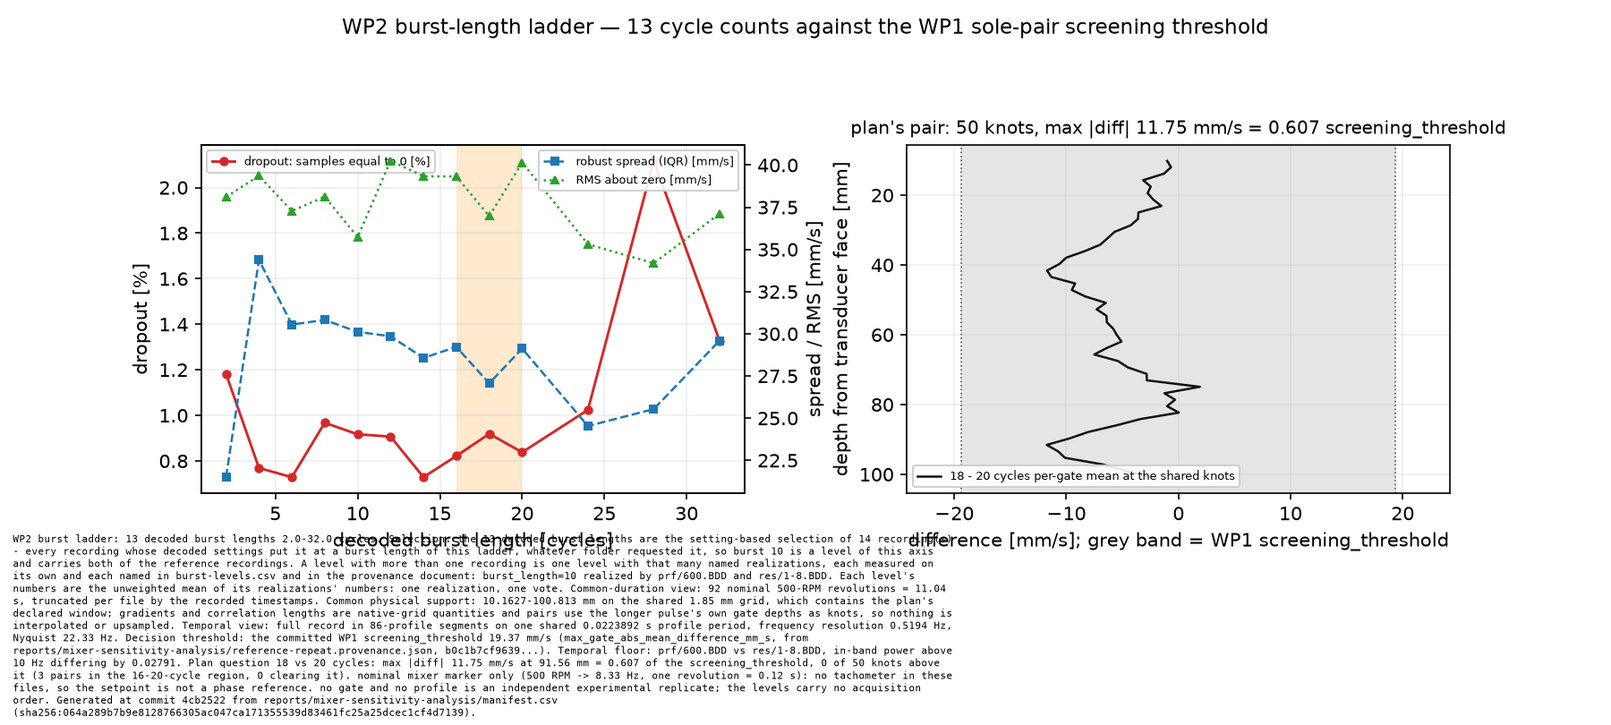
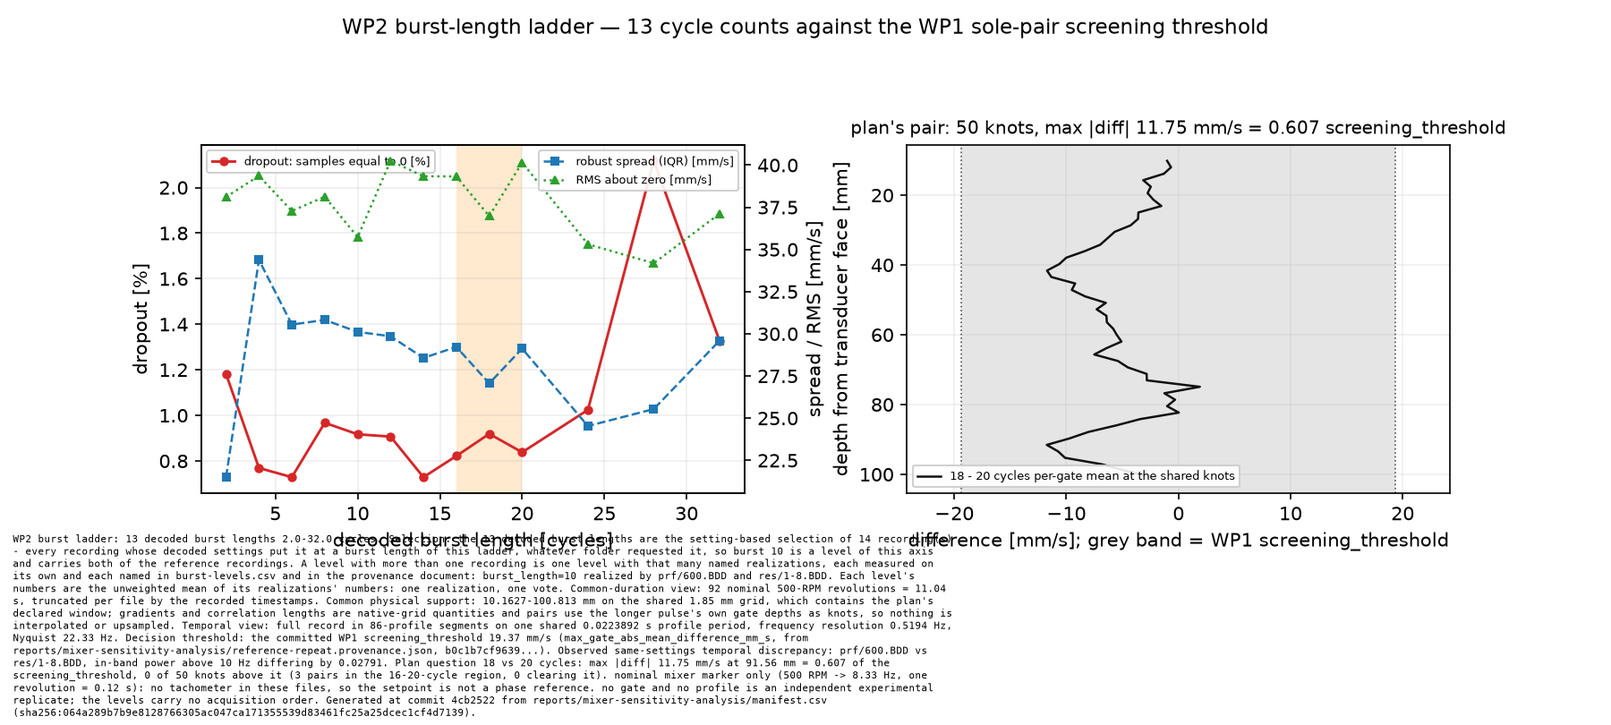
fix(analysis): make sole-pair screening semantics non-inferential
Replace the escaped bound/distinguishability role and temporal-floor language with screening-reference semantics. A result above or below the sole observed discrepancy no longer claims statistical distinguishability, separability, causality, or a drift bound.

RED: tests/test_screening_terms.py::test_indistinguishability_claims_from_one_pair_are_violations failed 3/3 because the checker emitted only r2-canonical-name; test_temporal_floor_inferences_from_one_pair_are_violations failed 3/3 for the same reason.
GREEN: 162 focused tests passed; check_screening_terms and ruff passed.

The generated provenance and burst figure are included atomically because the committed byte-reproduction tests intentionally fail when generator prose and generated evidence differ.

Changed region(s): [[0.0, 0.8951, 0.5911, 0.9877]]

diff --git a/src/udv_echo_process/analysis/burst_ladder.py b/src/udv_echo_process/analysis/burst_ladder.py
@@ -7,7 +7,7 @@ from the ``burst_len`` rows of the WP0 manifest, never a filename list (plan §4
 where the empirical transition is, and whether 18 can be separated from 20 cycles.
 
 One build produces the common views (plan §3.1, §3.2), the per-level native-grid metrics, the
-matched full-record temporal view with its repeat floor, every unordered pair against the
+matched full-record temporal view with its observed same-settings temporal discrepancy, every unordered pair against the
 committed WP1 screening_threshold (with the depth ranges where a difference clears it), the knees of the
 dropout/variance/smoothing/bandwidth metrics, and the four artefacts.
 
@@ -777,12 +777,12 @@ def _findings(model: BurstLadder) -> dict[str, object]:
                 f"ranges {min(shares):.4g}-{max(shares):.4g} (spread "
                 f"{max(shares) - min(shares):.4g}) over the {len(model.levels)} levels, the "
                 f"centroid {min(centroids):.4g}-{max(centroids):.4g} Hz and the RMS bandwidth "
-                f"{min(bandwidths):.4g}-{max(bandwidths):.4g} Hz, against a same-settings repeat "
-                f"floor of {floor['hf_share_difference']:.4g} in the same share and "
-                f"{floor['bandwidth_hz_difference']:.4g} Hz in the bandwidth: a smaller bandwidth "
-                "loss is not separable from repeat-plus-drift. The shortest bursts carry the "
+                f"{min(bandwidths):.4g}-{max(bandwidths):.4g} Hz, against an observed same-settings "
+                f"discrepancy of {floor['hf_share_difference']:.4g} in the same share and "
+                f"{floor['bandwidth_hz_difference']:.4g} Hz in bandwidth. The observed change is "
+                "smaller than that sole-pair discrepancy, so an axis effect is not demonstrated. The shortest bursts carry the "
                 "largest share and the longest the smallest, the direction a longer pulse "
-                "predicts, at a magnitude inside the floor."
+                "predicts, at a magnitude below that observed discrepancy."
             ),
         },
         "realizations": {
@@ -867,7 +867,7 @@ def figure_caption(model: BurstLadder) -> str:
     """The caption the committed figure and the provenance document both carry.
 
     It names the ladder, both time views, the common support, the alignment rule, the screening_threshold and
-    the temporal floor with their sources, and the 18-versus-20 numbers.
+    the observed same-settings temporal discrepancy with its sources, and the 18-versus-20 numbers.
     """
     findings = _findings(model)
     focus, temporal = findings["focus_18_vs_20"], findings["temporal_bandwidth"]
@@ -889,7 +889,7 @@ def figure_caption(model: BurstLadder) -> str:
         f"{temporal['frequency_resolution_hz']:.4g} Hz, Nyquist {temporal['nyquist_hz']:.4g} Hz. "
         f"Decision threshold: the committed WP1 screening_threshold {model.screening_threshold.value_mm_s:.4g} mm/s "
         f"({model.screening_threshold.metric}, from {model.screening_threshold.path}, "
-        f"{model.screening_threshold.source_sha256[:12]}...). Temporal floor: {temporal['floor_paths'][0]} "
+        f"{model.screening_threshold.source_sha256[:12]}...). Observed same-settings temporal discrepancy: {temporal['floor_paths'][0]} "
         f"vs {temporal['floor_paths'][1]}, in-band power above {PSD_HF_ABOVE_HZ:g} Hz differing "
         f"by {temporal['floor_hf_share_difference']:.4g}. Plan question 18 vs 20 cycles: max "
         f"|diff| {focus['max_abs_difference_mm_s']:.4g} mm/s at "

diff --git a/src/udv_echo_process/cli.py b/src/udv_echo_process/cli.py
@@ -439,9 +439,9 @@ def burst_ladder_main(argv: list[str] | None = None) -> None:
     and writes ``burst-levels.csv``, ``burst-pairs.csv``, ``burst-ladder.provenance.json``
     and ``figures/burst-ladder.png`` into the report directory, comparing every level pair to
     the committed WP1 sole-pair observed-discrepancy screening threshold and the matched temporal
-    view to the temporal repeat floor the committed WP1 curves imply. Exits 0 on success and 1
+    view to the observed same-settings temporal discrepancy in the committed WP1 curves. Exits 0 on success and 1
     with the named reason on stderr when the selection, the bytes, the screening threshold or the
-    temporal floor cannot
+    temporal discrepancy cannot
     be trusted (never a traceback, never a half-written artefact). It touches nothing but
     those four files: no instrument, no cache.
     """
@@ -472,7 +472,7 @@ def burst_ladder_main(argv: list[str] | None = None) -> None:
         "--screening-threshold",
         default=None,
         help=(
-            "WP1 provenance the sole-pair screening threshold and temporal floor are read from "
+            "WP1 provenance the sole-pair screening threshold and temporal discrepancy are read from "
             "(default: <report-dir>/reference-repeat.provenance.json)"
         ),
     )
@@ -532,7 +532,7 @@ def burst_ladder_main(argv: list[str] | None = None) -> None:
     )
     print(
         f"bandwidth   : in-band power above 10 Hz {temporal['hf_share_min']:.4g}-"
-        f"{temporal['hf_share_max']:.4g}, against a same-settings floor of "
+        f"{temporal['hf_share_max']:.4g}, against an observed same-settings discrepancy of "
         f"{temporal['floor_hf_share_difference']:.4g} in the same share"
     )
     print(f"levels table: {report_dir / burst_ladder.LEVELS_NAME}")
@@ -555,10 +555,10 @@ def prf_ladder_main(argv: list[str] | None = None) -> None:
     ``prf-ladder.provenance.json`` and ``figures/prf-ladder.png`` into the report directory:
     per-level velocity metrics, the actual profile rate from the timestamps, the ``|v| / Vmax``
     load fractions, the wrap-like discontinuities, the matched-physical-duration temporal view
-    with its repeat floor, every level pair against the committed WP1 sole-pair screening
+    with its observed same-settings temporal discrepancy, every level pair against the committed WP1 sole-pair screening
     threshold, and the plan's 400-us versus 250-us decision. Exits 0 on success and 1 with the
     named reason on stderr when the selection, the bytes, the screening threshold, the temporal
-    floor or the key's scaling cannot be
+    discrepancy or the key's scaling cannot be
     trusted (never a traceback, never a half-written artefact). It touches nothing but those four
     files: no instrument, no cache.
     """
@@ -589,7 +589,7 @@ def prf_ladder_main(argv: list[str] | None = None) -> None:
         "--screening-threshold",
         default=None,
         help=(
-            "WP1 provenance the sole-pair screening threshold and temporal floor are read from "
+            "WP1 provenance the sole-pair screening threshold and temporal discrepancy are read from "
             "(default: <report-dir>/reference-repeat.provenance.json)"
         ),
     )

diff --git a/tools/check_screening_terms.py b/tools/check_screening_terms.py
@@ -108,6 +108,22 @@ MANIFEST_BINDING_RE = re.compile(
 #: An above/below screening outcome: it must carry the non-causal interpretation.
 OUTCOME_RE = re.compile(r"\b(?:above|below|clears|clearing|clear|exceeds)\b", re.IGNORECASE)
 
+#: A sole observed discrepancy cannot support a statistical distinguishability
+#: claim. These formulations are invalid even though they contain words such as
+#: ``not`` or ``cannot``: those words negate distinguishability, not the inference.
+INDISTINGUISHABILITY_CLAIM_RE = re.compile(
+    r"smaller\s+than\s+this\s+bound\s+is\s+not\s+distinguishable"
+    r"|below\s+the\s+threshold\s+cannot\s+be\s+distinguished\s+from\s+drift"
+    r"|inside\s+the\s+threshold\s+means\s+indistinguishable",
+    re.IGNORECASE,
+)
+
+TEMPORAL_FLOOR_CLAIM_RE = re.compile(
+    r"\btemporal\s+floor\b|\brepeat\s+floor\b|"
+    r"\bnot\s+separable\s+from\s+repeat(?:-plus-|\s+plus\s+)drift\b",
+    re.IGNORECASE,
+)
+
 #: The framing that keeps an outcome non-causal rather than a proof or a bound.
 NON_CAUSAL_RE = re.compile(
     r"screening|non-causal|not proof|not a proof|no proof|does not prove|do not prove|"
@@ -341,6 +357,34 @@ def _scan_line(path: str, number: int, line: str) -> list[Violation]:
     statistical = STATISTICAL_ENVELOPE_MARKERS.search(line) is not None
     strict = QUANTITY_MARKER_RE.search(line) is not None
     owns_quantity = path in R2_TEXT_UNITS
+
+    if INDISTINGUISHABILITY_CLAIM_RE.search(line) is not None:
+        violations.append(
+            Violation(
+                path=path,
+                line=number,
+                rule="r2-indistinguishability-claim",
+                message=(
+                    "one observed discrepancy is a screening reference, not evidence that an "
+                    "effect is statistically indistinguishable from drift"
+                ),
+                excerpt=line.strip(),
+            )
+        )
+
+    if TEMPORAL_FLOOR_CLAIM_RE.search(line) is not None:
+        violations.append(
+            Violation(
+                path=path,
+                line=number,
+                rule="r2-temporal-floor-claim",
+                message=(
+                    "the sole pair supplies an observed same-settings temporal discrepancy, not "
+                    "a statistical floor or separability criterion"
+                ),
+                excerpt=line.strip(),
+            )
+        )
 
     for phrase in RETIRED_PHRASES:
         start = lowered.find(phrase)

diff --git a/src/udv_echo_process/analysis/prf_ladder.py b/src/udv_echo_process/analysis/prf_ladder.py
@@ -8,7 +8,7 @@ question from the ``prf`` rows of the WP0 manifest, never a filename list (plan 
 is a 250-µs acquisition therefore justified?* One build produces the common views (plan §3.1, §3.2), the per-level native-grid metrics, the
 actual profile rate the timestamps imply, the ``|v| / Vmax`` load distributions with their warning
 fractions, the wrap-like temporal discontinuities, the matched full-record temporal view with its
-repeat floor, and every unordered pair against the committed WP1 screening_threshold with the depth ranges
+observed same-settings temporal discrepancy, and every unordered pair against the committed WP1 screening_threshold with the depth ranges
 where it clears it. The manifest selection, decode and its hash/cell/grid re-checks, the clean-OFAT
 audit, the common views, the native-grid metrics, the knot alignment, the committed WP1 screening_threshold
 and temporal-floor readers and the writers belong to the shared layer
@@ -972,7 +972,7 @@ def figure_caption(model: PrfLadder) -> str:
     """The caption the committed figure and the provenance document both carry.
 
     It names the ladder, both time views, the common support, the alignment rule, the screening_threshold and
-    the temporal floor with their sources, and the 400-us decision numbers.
+    the observed same-settings temporal discrepancy with its sources, and the 400-us decision numbers.
     """
     findings = _findings(model)
     decision, headroom = findings["focus_decision"], findings["velocity_headroom"]

diff --git a/tests/test_screening_terms.py b/tests/test_screening_terms.py
@@ -108,6 +108,40 @@ def test_every_retired_phrase_is_caught_one_by_one(tool, no_allowlist):
         assert "r2-retired-phrase" in rules_of(violations), phrase
 
 
+@pytest.mark.parametrize(
+    "text",
+    (
+        "An effect smaller than this bound is not distinguishable from repeat-plus-drift.\n",
+        "Below the threshold cannot be distinguished from drift.\n",
+        "Inside the threshold means indistinguishable.\n",
+    ),
+)
+def test_indistinguishability_claims_from_one_pair_are_violations(tool, no_allowlist, text):
+    violations = tool.scan_text(
+        text,
+        "src/udv_echo_process/analysis/_native_grid.py",
+        allowlist=no_allowlist,
+    )
+    assert "r2-indistinguishability-claim" in rules_of(violations)
+
+
+@pytest.mark.parametrize(
+    "text",
+    (
+        "The temporal floor is taken from the same-settings pair.\n",
+        "The same-settings repeat floor is 0.3 Hz.\n",
+        "A smaller bandwidth loss is not separable from repeat-plus-drift.\n",
+    ),
+)
+def test_temporal_floor_inferences_from_one_pair_are_violations(tool, no_allowlist, text):
+    violations = tool.scan_text(
+        text,
+        "src/udv_echo_process/analysis/burst_ladder.py",
+        allowlist=no_allowlist,
+    )
+    assert "r2-temporal-floor-claim" in rules_of(violations)
+
+
 def test_an_explicit_negation_is_not_a_violation(tool, no_allowlist):
     """A statement that the quantity is *not* a bound must survive."""
     for text in (

diff --git a/src/udv_echo_process/analysis/_native_grid.py b/src/udv_echo_process/analysis/_native_grid.py
@@ -94,8 +94,9 @@ class ScreeningThresholdBinding(ValueModel):
     median_abs_mean_difference_mm_s: float
     scope: str
     role: str = (
-        "decision threshold: an effect smaller than this bound is not "
-        "distinguishable from repeat-plus-drift"
+        "screening reference only: above/below indicates magnitude relative to the sole observed "
+        "same-settings discrepancy; neither outcome establishes distinguishability, causality, "
+        "or a bound on drift"
     )
 
 
@@ -1117,7 +1118,7 @@ def read_temporal_floor(
     band_hz: tuple[float, float],
     hf_above_hz: float,
 ) -> dict[str, object]:
-    """The temporal repeat floor the committed WP1 curves record.
+    """The observed same-settings temporal discrepancy the committed WP1 curves record.
 
     Both recordings are summarised with the same :func:`psd_band_summary` the axis levels use, so
     their difference is comparable to a difference across a ladder. Refuses a missing document,

diff --git a/tests/test_prf_ladder.py b/tests/test_prf_ladder.py
@@ -276,7 +276,7 @@ def test_build_refuses_stale_hash_derived_cells_coupling_or_unbound_screening_th
     changed = _manifest(tmp_path, lambda rows: _replace(rows, PATHS[1], gates="49"))
     with pytest.raises(PrfLadderError, match="records manifest"):
         build_prf_ladder(DATASET_ROOT, changed, ENVELOPE, analysis_commit=COMMIT)
-    # The threshold and the temporal floor are the committed WP1 pair through its committed curves.
+    # The threshold and temporal discrepancy are the committed WP1 pair through its committed curves.
     ladder = build_prf_ladder(DATASET_ROOT, RELATIVE_MANIFEST, RELATIVE_ENVELOPE,
                               analysis_commit=COMMIT)
     floor = ladder.temporal["floor"]

diff --git a/tests/test_burst_ladder.py b/tests/test_burst_ladder.py
@@ -10,7 +10,7 @@ one common physical support serve every cross-level summary; native-grid gradien
 correlation length are computed before any alignment and pairs sample the shorter pulse's
 grid at the longer pulse's own knots; every mean-profile effect is stated against the
 committed WP1 screening_threshold; the full-record temporal view is matched across all 12 files and
-compared to the temporal repeat floor the committed WP1 curves imply; and the
+compared to the observed same-settings temporal discrepancy in the committed WP1 curves; and the
 18-versus-20-cycle question is answered from the numbers rather than asserted.
 """
 

diff --git a/reports/mixer-sensitivity-analysis/README.md b/reports/mixer-sensitivity-analysis/README.md
@@ -19,7 +19,7 @@ Expected outputs, in work-plan order:
 | `figures/resolution-ladder.*` | WP2 | reviewer-visible resolution decision figure |
 | `burst-levels.csv` | WP2 | one row per decoded burst length, native-grid and temporal metrics |
 | `burst-pairs.csv` | WP2 | every level pair on the shared knots, against the WP1 screening threshold |
-| `burst-ladder.provenance.json` | WP2 | binding, definitions, both views, temporal floor and findings |
+| `burst-ladder.provenance.json` | WP2 | binding, definitions, both views, observed same-settings temporal discrepancy and findings |
 | `figures/burst-ladder.*` | WP2 | reviewer-visible burst dropout/variance and 18-vs-20 decision figure |
 | `prf-levels.csv` | WP2 | one row per decoded PRF period: velocity load, wrap-like counts, matched-segment temporal metrics |
 | `prf-pairs.csv` | WP2 | every level pair on the shared knots and bands, against the WP1 screening threshold |
@@ -249,7 +249,7 @@ artefacts are:
 |---|---|
 | `burst-levels.csv` | 12 rows, one per decoded cycle count: common-duration mean, robust spread (IQR), RMS, zero fraction (dropout), native-grid gradient and correlation length, and the matched full-record temporal metrics (ACF e-folding lag, in-band power share above 10 Hz, spectral centroid, RMS bandwidth) |
 | `burst-pairs.csv` | 66 rows, every unordered pair: the signed `short - long` per-gate mean difference at the shared knots, the knots that clear the WP1 screening threshold and the depth ranges where they do, and the short-to-long change of the dropout, variance, smoothing and bandwidth metrics |
-| `burst-ladder.provenance.json` | the binding (manifest hash, all 12 source hashes, the the WP1 screening threshold's path and hash, generator commit), the metric definitions, both views, the temporal floor, the findings and the figure caption |
+| `burst-ladder.provenance.json` | the binding (manifest hash, all 12 source hashes, the the WP1 screening threshold's path and hash, generator commit), the metric definitions, both views, the observed same-settings temporal discrepancy, the findings and the figure caption |
 | `figures/burst-ladder.png` | two panels, the minimum the decisions need: dropout and variance versus cycle count with the 16-20-cycle region shaded, and the plan's 18-versus-20 difference at the shared knots against the screening threshold band |
 
 They are written by:
@@ -261,7 +261,7 @@ They are written by:
 The command selects **every `burst_len` row of `manifest.csv`** (never a filename list), orders the
 ladder by decoded cycle count, re-checks all 12 source SHA-256 values against the bytes together with
 every decoded setting and the gate grid of each recording, reads the decision threshold and the
-temporal repeat floor from the committed WP1 provenance and refuses to run when that artefact was
+observed same-settings temporal discrepancy from the committed WP1 provenance and refuses to run when that artefact was
 generated against another manifest. It also refuses a ladder in which any setting other than the
 burst length moved (plan section 2's clean-OFAT requirement). A malformed, duplicated, undecodable,
 coupled or stale inventory exits 1 with a named reason and writes nothing. As with WP0/WP1/resolution,
@@ -296,7 +296,7 @@ Definitions the tables cannot be read without, all restated in the provenance do
   segments per level. Each level's ensemble PSD inside 0.5-20 Hz gives the in-band power share above
   10 Hz, the power-weighted spectral centroid and the RMS bandwidth; its ensemble autocorrelation gives
   the e-folding lag.
-- **temporal repeat floor** — the same metrics for the two committed WP1 same-settings recordings,
+- **observed same-settings temporal discrepancy** — the same metrics for the two committed WP1 same-settings recordings,
   computed from the ACF/PSD curves `reference-repeat.provenance.json` already records. Their difference
   screens repeatability plus uncontrolled drift for the temporal metrics, exactly as the
   19.37008103465545 mm/s mean-profile screening threshold does for the depth profiles.
@@ -336,17 +336,17 @@ Every number below is copied from the artefacts above (the same values are resta
   scale of order tens of millimetres. In the temporal view the in-band power share above 10 Hz ranges
   **0.0787-0.1235** (spread 0.0448) and the RMS bandwidth **3.952-4.639 Hz**, while the two committed
   same-settings recordings differ by **0.0279** in the same share and **0.446 Hz** in the bandwidth —
-  the ladder's spread is only ~1.6x that floor. The direction is the one a longer pulse predicts (the
-  shortest bursts carry the largest share), but the magnitude is not separable from repeat-plus-drift.
+  the ladder's spread is only ~1.6x that observed discrepancy. The direction is the one a longer pulse predicts (the
+  shortest bursts carry the largest share), but an axis effect is not demonstrated relative to that sole-pair screening reference.
   The ACF e-folding lag takes only the two values the WP1 pair shows (0.08956 s at 11 levels,
   0.11195 s at `burst_len/32.BDD`), and that pair's own lag difference is exactly one profile period
-  (0.02239 s), so a one-lag change is inside the floor by construction.
+  (0.02239 s), so a one-lag change is smaller than that observed discrepancy by construction.
 
 Reviewer path: `burst-pairs.csv` (the focus-pair row `burst_len/18.BDD` -> `burst_len/20.BDD` with
 `knots_above_screening threshold` = 0, and the `max_abs_difference_over_screening threshold` column throughout), then
 `burst-levels.csv` for the per-level distributional, spatial and temporal numbers, then
 `figures/burst-ladder.png`, then the `findings`, `definitions` and `views` blocks of
-`burst-ladder.provenance.json` for the binding, the temporal floor and the limitations.
+`burst-ladder.provenance.json` for the binding, the observed same-settings temporal discrepancy and the limitations.
 
 ## WP2 — the PRF axis
 
@@ -371,7 +371,7 @@ They are written by:
 The command selects **every `prf` row of `manifest.csv`** (never a filename list), orders the ladder
 by decoded PRF period, re-checks all five source SHA-256 values against the bytes together with
 every decoded setting, the gate grid *and the two cells the key derives* (`prf_hz` and
-`velo_max_ms`), reads the decision threshold and the temporal floor from the committed WP1
+`velo_max_ms`), reads the decision threshold and the observed same-settings temporal discrepancy from the committed WP1
 provenance, and refuses to run when that artefact was generated against another manifest. It also
 refuses a ladder in which a decoded setting other than the key moved (plan §2's clean-OFAT
 requirement) and a ladder whose velocity scale did **not** move with the key: `velo_max_ms` is the
@@ -428,10 +428,10 @@ Definitions the tables cannot be read without, all restated in the provenance do
   (`max_gate_abs_mean_difference_mm_s`), read from `reference-repeat.provenance.json` and pinned to
   this manifest's hash. It is a screening threshold: one observed realization of repeatability *plus* uncontrolled drift, and it is the
   threshold every mean-profile effect here is compared to.
-- **temporal repeat floor** — the same-settings WP1 pair (`prf/600.BDD` vs `res/1-8.BDD`) through
+- **observed same-settings temporal discrepancy** — the same-settings WP1 pair (`prf/600.BDD` vs `res/1-8.BDD`) through
   its committed curves, resummarised in the bands this ladder shares: their band-mean spectral
   levels differ by up to 3.532 dB and their share of in-band power below the 8.333 Hz marker by
-  0.01806, so a cross-level spectral difference smaller than that is not separable either.
+  0.01806. A smaller cross-level spectral difference does not demonstrate an axis effect relative to that observation.
 
 ### What the committed files measure
 
@@ -471,10 +471,10 @@ provenance's `findings` block, and each pair row carries its own):
   knot. None of these runs spans the support, so the evidence is a *localised* signal (near-field and
   a few mid/minor-depth knots), not a global velocity bias — and with one recording per level and no
   acquisition order, that localised signal cannot be separated from drift.
-- **The spectra themselves are not separable at this resolution either.** Band-mean spectral level
+- **A spectral axis effect is not demonstrated relative to the sole-pair discrepancy.** Band-mean spectral level
   differences between levels run 1.22-3.46 dB in magnitude, while the same-settings WP1 pair differs
   by 3.532 dB in the same resummarisation; the direction (the shorter period's density slightly
-  below the longer's in 8 of 10 pairs) is not larger than the floor, and with 5-10 segments per level
+  below the longer's in 8 of 10 pairs) is not larger than that observed discrepancy, and with 5-10 segments per level
   a band level is a coarse magnitude.
 
 Reviewer path: `prf-levels.csv` for the per-level load, warning fractions, wrap-like counts, profile

diff --git a/reports/mixer-sensitivity-analysis/decision-table.md b/reports/mixer-sensitivity-analysis/decision-table.md
@@ -41,7 +41,7 @@ SHA-256 of the committed bytes:
[8 lines of base64/hex data omitted]
@@ -132,7 +132,7 @@ All 40 manifest rows carry `emissions_per_profile` = 20 (word 14), and the recor
 | **8** (new) | Not measured. No committed recording varies the axis; every file's word 14 is 20 and every file's time base agrees with it. | **N/A** — no measured variation exists to compare. | The low-averaging end, and the first point that would make the axis **readable from a file's own time base** rather than inferred: at ~15 ms per profile (matrix §9) the stored step itself states the setting. | `emissions_per_profile` is a **run-wide** campaign value today (`campaign.CampaignDefinition.emissions_per_profile`; points may not disagree) and is not in `actuator.PARAMETER_WRITE_ORDER` = `(RESOLUTION, GATES)`, although `ParamRole.EMISSIONS_PER_PROFILE` exists. One job per level needs no new writer; one run with per-point levels does. The runner's size guard already derives from the definition's emissions (`emissions x PRF + ~1 ms`), so it needs no change. | `keep` (acquire) | A control spread above the screening threshold inside the emissions jobs, or a refusal from the app's own period/size law at the shorter stored step — either says the condition cannot carry a bounded comparison yet. |
 | **20** (reference) | Measured — it *is* the reference: 20 in all 40 rows, corroborated by the time base. | **N/A** | The axis's own reference: the comparand for 8 and 64, and the value the reference controls carry. | None. | `keep` (measured; the controls are acquired) | A decoded word 14 that disagrees with the time-base recovery on a new file — that would mean one of the two paths is wrong and the axis is not readable the way this table assumes. |
 | **64** (new) | Not measured, as above. | **N/A** | Moderate averaging: the level that decides whether the axis has plateaued, and the gate for 128. | As for 8 (one job today, or a per-point writer for one run). | `keep` (acquire) | A control spread above the screening threshold inside the emissions jobs; or the axis proving unreadable (see 8). |
-| **128** (new) | Not measured, as above. | **N/A** | None until 64 is seen. | As for 8, if it is ever acquired. | `defer` (conditional) — acquired only on the §5 trigger | The §5 trigger itself: 64's own change from 20 measured above the committed temporal floor on the named metrics. |
+| **128** (new) | Not measured; same rationale. | **N/A** | None until 64 is seen. | As for 8, if it is ever acquired. | `defer` (conditional) — acquired only on the §5 trigger | The §5 trigger itself: 64's own change from 20 measured relative to the committed observed same-settings temporal discrepancy on the named metrics. |
 
 ## 4. Burst-length axis — draft §D
 
@@ -259,12 +259,12 @@ jobs (one per axis block). Recordings for the first pass: **10** (7 unique + 3 c
 ### 8.5 The trigger for the one conditional extension
 
 `E128` is acquired **only if E64 has not plateaued**, and "plateaued" is a measurement against the committed
-temporal floor, not an opinion. Resummarise E64 against the reference in the same bands the committed ladders
-use and compare each of these to its committed same-settings floor:
+observed same-settings temporal discrepancy, not an opinion. Resummarise E64 against the reference in the same bands the committed ladders
+use and compare each of these to its committed observed same-settings discrepancy:
 
-- in-band power share above 10 Hz — floor **0.02789** (`burst-ladder.provenance.json` `findings.temporal_bandwidth.floor_hf_share_difference`);
-- RMS bandwidth — floor **0.4457 Hz** (same key, `floor_bandwidth_difference_hz`);
-- band-mean spectral level — floor **3.5317 dB**, and the share of in-band power below the 8.333 Hz marker — floor **0.01806** (`prf-ladder.provenance.json` `findings.temporal_bandwidth.floor_band_level_difference_db`, `floor_hf_share_difference`);
+- in-band power share above 10 Hz — observed discrepancy **0.02789** (`burst-ladder.provenance.json` `findings.temporal_bandwidth.floor_hf_share_difference`);
+- RMS bandwidth — observed discrepancy **0.4457 Hz** (same key, `floor_bandwidth_difference_hz`);
+- band-mean spectral level — observed discrepancy **3.5317 dB**, and the share of in-band power below the 8.333 Hz marker — observed discrepancy **0.01806** (`prf-ladder.provenance.json` `findings.temporal_bandwidth.floor_band_level_difference_db`, `floor_hf_share_difference`);
 - stored profile period and per-gate zero fraction, against the same control repeats.
 
 If E64's change from the reference exceeds its floor on any of those, the axis has not plateaued and E128 is

diff --git a/docs/dop3000/sparse-parameter-set.md b/docs/dop3000/sparse-parameter-set.md
@@ -135,10 +135,10 @@ per axis block). Recordings for the first pass: **10** (7 unique + 3 controls) i
 
 ### 3.4 The measurement that triggers the conditional extension
 
-`E128` is acquired **only if E64 has not plateaued**, and plateauing is judged against the committed temporal
-repeat floor resummarised in the same bands, not by inspection:
+`E128` is acquired **only if E64 has not plateaued**, and plateauing is judged against the committed
+observed same-settings temporal discrepancy resummarised in the same bands, not by inspection:
 
-| Quantity, E64 against the reference | Committed floor | Source |
+| Quantity, E64 against the reference | Observed same-settings discrepancy | Source |
 |---|---|---|
 | in-band power share above 10 Hz | 0.02789 | `burst-ladder.provenance.json` `findings.temporal_bandwidth` |
 | RMS bandwidth | 0.4457 Hz | same key |
